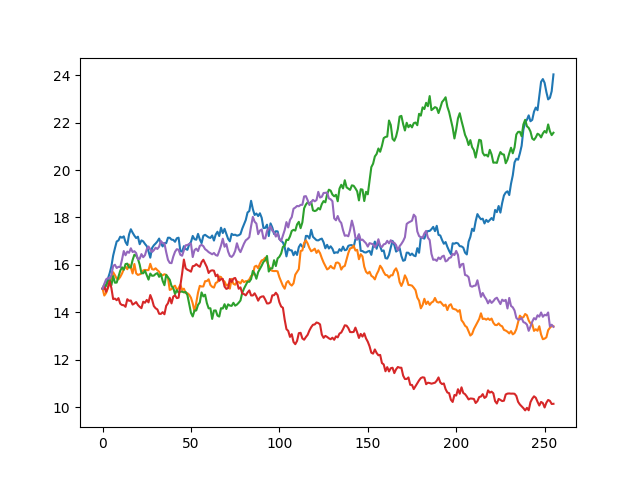
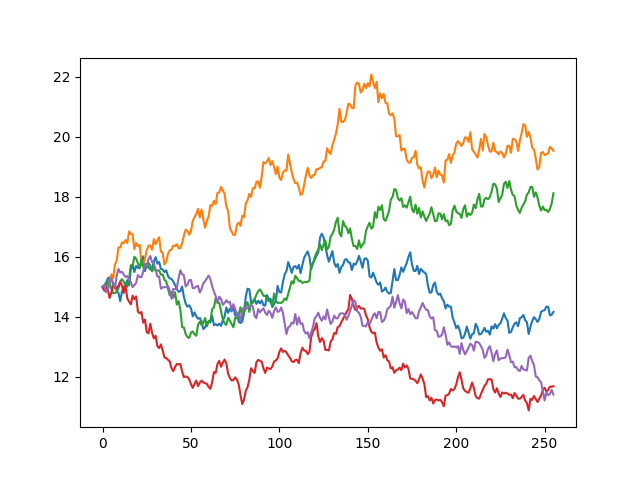
Formatted files

diff --git a/walkabout/simulator.py b/walkabout/simulator.py
@@ -1,11 +1,12 @@
 
 def build_simulation(handler):
-    def wrapper(type = 'full_path', **params):
-        if(type=='last_value'):
+    def wrapper(type='full_path', **params):
+        if(type == 'last_value'):
             return get_last_values(handler, **params)
         else:
             return get_full_paths(handler, **params)
     return wrapper
+
 
 def get_full_paths(handler, starting_value=0, iterations=0, steps=0, **params):
     paths = []
@@ -13,11 +14,17 @@ def get_full_paths(handler, starting_value=0, iterations=0, steps=0, **params):
     for iteration in range(iterations):
         path = [starting_value]
         for step in range(steps):
-            result = handler(**{'previous_value': path[step], 'current_path': path, **params, **state})
+            result = handler(**{
+                'previous_value': path[step],
+                'current_path': path,
+                **params,
+                **state
+            })
             path.append(result['value'])
             state = result['state']
         paths.append(path)
     return paths
+
 
 def get_last_values(handler, starting_value=0, iterations=0, steps=0, **params):
     paths = []
@@ -31,7 +38,8 @@ def get_last_values(handler, starting_value=0, iterations=0, steps=0, **params):
         paths.append(last_val)
     return paths
 
-def result(value, state = {}):
+
+def result(value, state={}):
     return {
         'value': value,
         'state': state

diff --git a/walkabout/simulations.py b/walkabout/simulations.py
@@ -1,14 +1,19 @@
 from walkabout import build_simulation, utility, result
 
+
 @build_simulation
 def brownian_motion(previous_value, volatility, **params):
     percent_change = utility.random_value(volatility)
     absolute_change = utility.absolute_change(previous_value, percent_change)
     return result(previous_value + absolute_change)
 
+
 @build_simulation
 def geometric_brownian_motion(previous_value, drift, volatility, **params):
     volatility_percent_change = utility.random_value(volatility)
-    volatility_absolute_change = utility.absolute_change(previous_value, volatility_percent_change)
+    volatility_absolute_change = utility.absolute_change(
+        previous_value,
+        volatility_percent_change
+    )
     drift_absolute_change = utility.absolute_change(previous_value, drift)
     return result(previous_value + volatility_absolute_change + drift_absolute_change)

diff --git a/walkabout/utility.py b/walkabout/utility.py
@@ -1,19 +1,24 @@
 import math
 import numpy.random as rand
 
-def random_value(vol):
-	return rand.normal(loc=0, scale=vol)
 
-def random_event(prob, vol):
-	if rand.rand() > prob:
-		return 0
-	return rand.normal(scale=vol)
+def random_value(stdev):
+    return rand.normal(scale=stdev)
 
-def scale_stdev(number, units):
-    return number * math.sqrt(1/units)
 
-def scale_percent(number, units):
-    return ((number + 1)**(1/units)) - 1
+def random_event(prob):
+    if rand.rand() < prob:
+        return True
+    return False
+
+
+def scale_stdev(number, from_unit, to_unit):
+    return float(number) * math.sqrt(float(to_unit) / float(from_unit))
+
+
+def scale_percent(number, from_unit, to_unit):
+    return ((float(number) + 1)**(to_unit/float(from_unit))) - 1
+
 
 def absolute_change(value, percent):
-    return value * percent
+    return float(value) * float(percent)

diff --git a/examples/geometric_brownian_motion.py b/examples/geometric_brownian_motion.py
@@ -1,14 +1,13 @@
+import matplotlib.pyplot as plt
 import sys
 sys.path.append('../')
-
 import walkabout
-import matplotlib.pyplot as plt
 
 params = {
     'steps': 255,
     'iterations': 5,
-    'volatility': walkabout.utility.scale_stdev(0.05, 255),
-    'drift': walkabout.utility.scale_percent(0.10, 255),
+    'volatility': walkabout.utility.scale_stdev(0.05, from_unit=255, to_unit=1),
+    'drift': walkabout.utility.scale_percent(0.10, from_unit=255, to_unit=1),
     'starting_value': 15
 }
 

diff --git a/examples/brownian_motion.py b/examples/brownian_motion.py
@@ -1,13 +1,13 @@
+import matplotlib.pyplot as plt
 import sys
 sys.path.append('../')
-
 import walkabout
-import matplotlib.pyplot as plt
+
 
 params = {
     'steps': 255,
     'iterations': 5,
-    'volatility': walkabout.utility.scale_stdev(0.20, 255),
+    'volatility': walkabout.utility.scale_stdev(0.20, from_unit=255, to_unit=1),
     'starting_value': 15
 }
 
